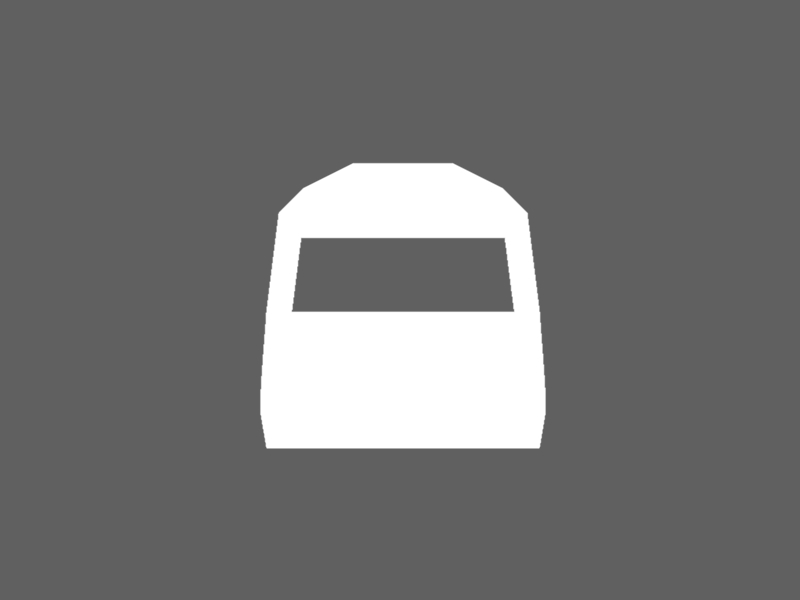
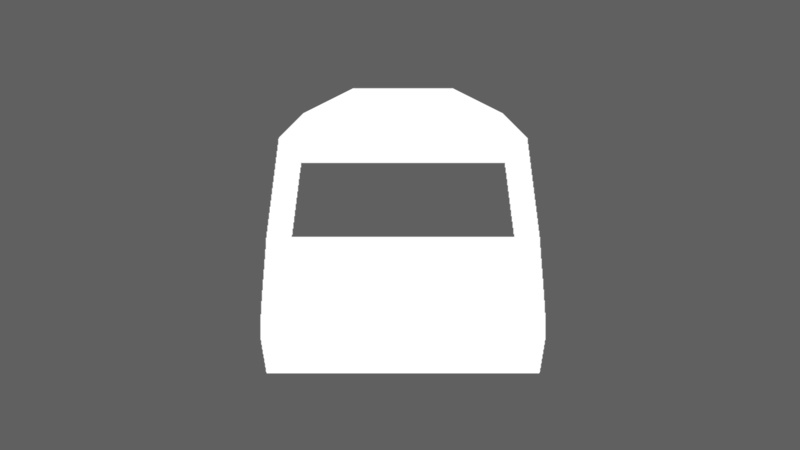
DefaultImage is now 16:9, linked not duplicated and referenced in xaml
16:9 is a better fit for almost all engines and carriages.

The Image used to be both in the resource folder and in the TkMobile project, now it's a link from the the project to the resource folder.

The ImageResourceExtension is as described in the offical Xamarin Forms documentation in order to load an image in XAML from resources. The Purpose of this is to avoid setting the default Image after the Page is already open, not changing the layout.

diff --git a/TkMobile/TkMobile/ItemPages/Locomotives/LocomotiveDetail.xaml b/TkMobile/TkMobile/ItemPages/Locomotives/LocomotiveDetail.xaml
@@ -1,6 +1,7 @@
 <?xml version="1.0" encoding="utf-8" ?>
 <ContentPage xmlns="http://xamarin.com/schemas/2014/forms"
              xmlns:x="http://schemas.microsoft.com/winfx/2009/xaml"
+             xmlns:local="clr-namespace:TkMobile"
              x:Class="TkMobile.ItemPages.LocomotiveDetail">
     <ContentPage.ToolbarItems>
         <ToolbarItem
@@ -16,7 +17,7 @@
         <TableView Intent="Data" HasUnevenRows="True">
             <TableSection Title="General">
                 <ViewCell>
-                    <Image x:Name="ImageThing"/>
+                    <Image x:Name="ImageThing" Source="{local:ImageResource DefaultImage.jpg}"/>
                     <!--<Label Text="Loading ..." AnchorY="0" AnchorX="0"/>-->
                 </ViewCell>
                 <EntryCell x:Name="ItemNameCell" Text="{Binding Name, Mode=TwoWay}"/>

diff --git a/TkMobile/TkMobile/ImageResourceExtension.cs b/TkMobile/TkMobile/ImageResourceExtension.cs
@@ -1,0 +1,36 @@
+// Copyright (c) Dominic Ritz. All Rights Reserved.
+// Licensed under the GNU GPL, Version 3.0 or any later version. See LICENSE in the project root for license information.
+
+namespace TkMobile
+{
+    using System;
+    using System.Reflection;
+    using Xamarin.Forms;
+    using Xamarin.Forms.Xaml;
+
+    /// <summary>
+    /// Provides an Image from a resource (for XAML).
+    /// </summary>
+    [ContentProperty(nameof(Source))]
+    public class ImageResourceExtension : IMarkupExtension
+    {
+        /// <summary>
+        /// Gets or sets the resource identifier.
+        /// </summary>
+        public string Source { get; set; }
+
+        /// <inheritdoc/>
+        public object ProvideValue(IServiceProvider serviceProvider)
+        {
+            if (Source == null)
+            {
+                return null;
+            }
+
+            // Do your translation lookup here, using whatever method you require
+            var imageSource = ImageSource.FromResource(Source, typeof(ImageResourceExtension).GetTypeInfo().Assembly);
+
+            return imageSource;
+        }
+    }
+}
